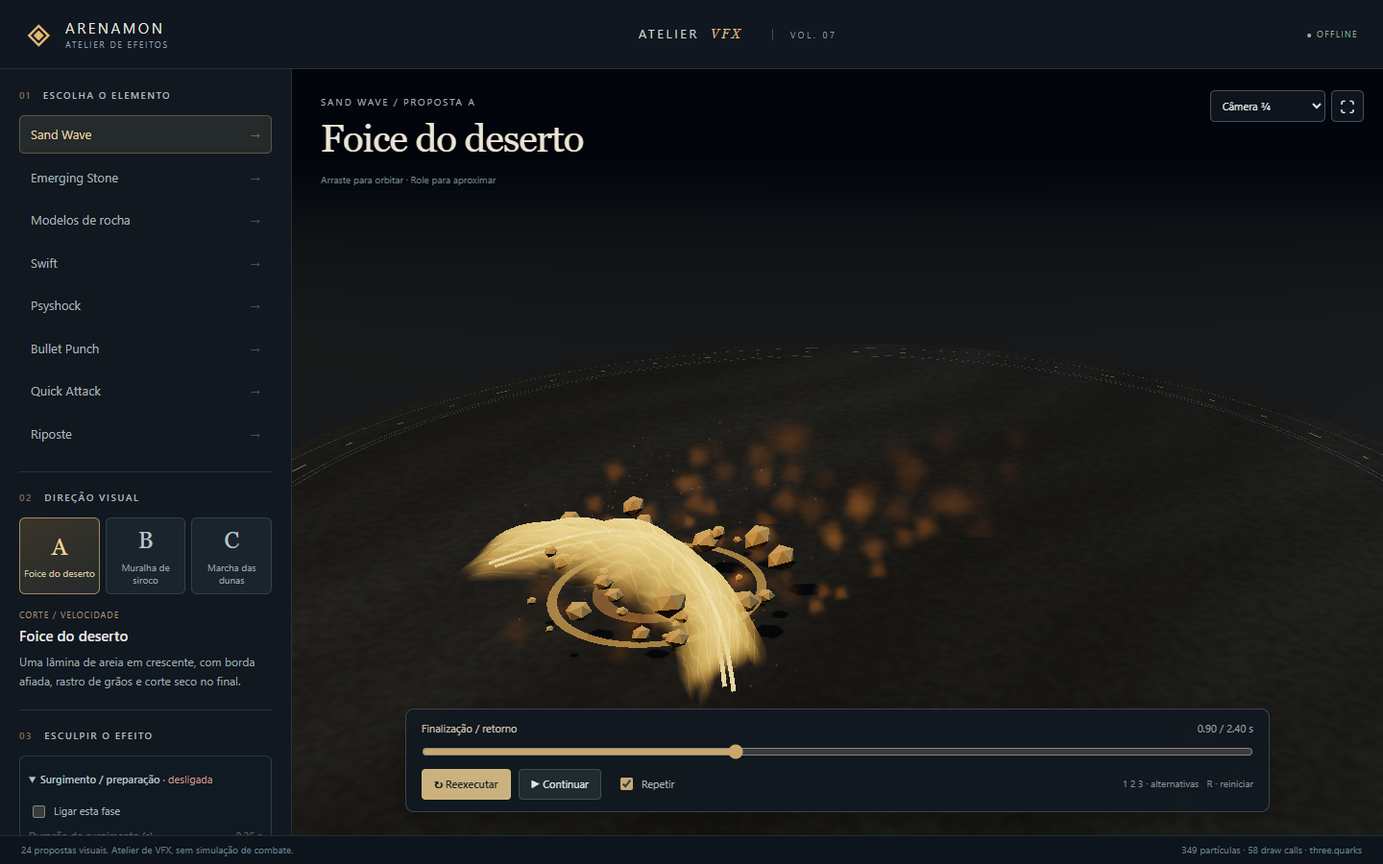
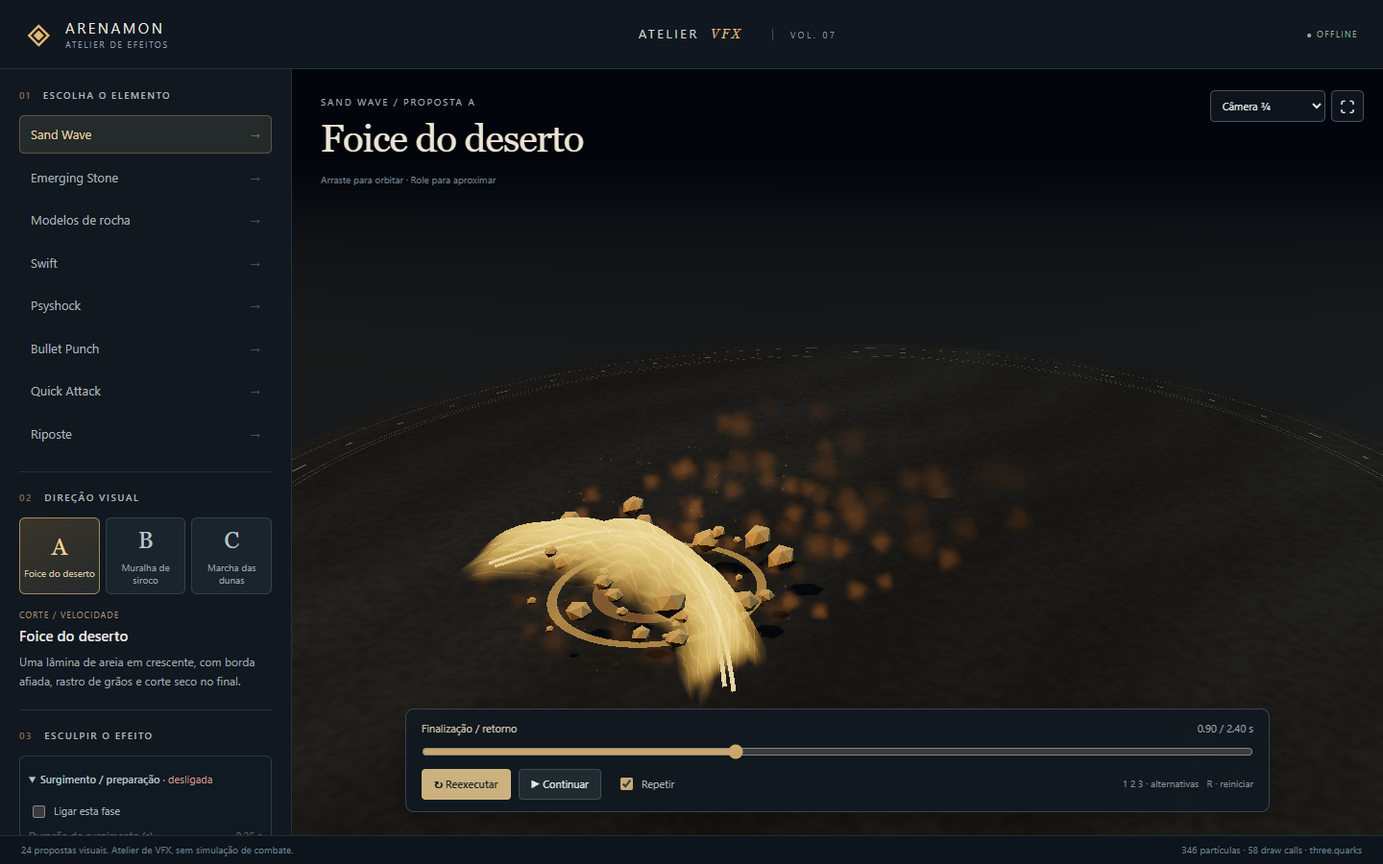
feat(atelier): funil real no Tiro em cone e no Jato (perfil, offset focal, largura horizontal), atraso do disparo e sliders do padrao que faltavam (v1.35.0)

diff --git a/prototypes/sand-stone-lab/src/config.ts b/prototypes/sand-stone-lab/src/config.ts
@@ -34,7 +34,7 @@ export const help:Record<string,string> = {
  auraRadius:'Tamanho dos glifos ao redor das pedras.',ringThickness:'Espessura das linhas dos glifos.',ringCount:'Quantidade de camadas geométricas por pedra.',angularSpeed:'Velocidade de animação dos glifos.',spiral:'Torção dos glifos e dos ecos ao redor das pedras.',pulseRate:'Frequência da animação dos glifos; Sem flash congela a pulsação.',particleDensity:'Multiplica a quantidade de partículas desta opção.',orbSize:'Escala das partículas psíquicas.',trailGlow:'Brilho dos ecos deixados no caminho.',trailLength:'Persistência e comprimento das pós-imagens.',shards:'Quantidade relativa de fragmentos no impacto.',fissureGlow:'Brilho das fendas das pedras.',impactDecay:'Decaimento do acabamento psíquico após o contato.',
  chargeTime:'Preparação da prévia; não representa uma carga Charge.',travelTime:'Tempo de deslocamento visual até o alvo.',spread:'Abertura lateral das trilhas e pós-imagens.',twist:'Velocidade de torção helicoidal dos rastros.',stretch:'Alongamento do corpo durante o avanço.',decay:'Dissipação relativa dos rastros e do impacto.',guardSize:'Escala da guarda do Riposte.',counterSize:'Escala da lâmina do contra-ataque.',contactTime:'Instante simulado da interceptação; não altera a janela do jogo.',scenario:'Escolhe o evento que chega à guarda do Riposte.',
  startTime:'Tempo visual de surgimento; carga somente no Psyshock.',flightTime:'Tempo visual até o destino. No Emerging Stone é a viagem subterrânea.',holdTime:'Tempo adicional para manter a presença do efeito antes de encerrar.',finishTime:'Duração do apagar; no Quick Attack é o retorno sem segundo hit.',impactTime:'Tempo de vida do efeito de contato, independente da recuperação.',impactSize:'Multiplica o tamanho do impacto, explosão e hit da prévia.',impactParticles:'Multiplica a emissão de partículas somente no contato.',hitOn:'Acrescenta o hit pontual ao contato válido, separado da explosão.',outcome:'Contato mostra impacto; expirar e interromper encerram sem hit.',rotationX:'Inclinação do VFX no eixo X: positivo e negativo giram em sentidos opostos.',rotationY:'Direção do VFX no eixo vertical Y; positivo e negativo giram em sentidos opostos.',rotationZ:'Rotação da silhueta no eixo Z; 90° deixa a Foice do Deserto em pé.',
- undergroundDepth:'Profundidade representada pelo rastro abaixo da superfície.',undergroundWidth:'Largura da trilha de poeira e energia no chão.',undergroundParticles:'Quantidade de partículas no caminho subterrâneo.',shotKind:'0 = Nenhum (padrão: o visual atual não muda), 1 = Argola, 2 = Tiro em cone, 3 = Burst de vento anime, 4 = Jato pressurizado, 5 = Impacto estelar. Os valores de cada opção ficam guardados ao trocar; desligar a fase Disparo desliga também o disparo antigo do efeito.',shotRadius:'Raio inicial do disparo (m) ou da boca do cone/argola.',shotRadiusEnd:'Raio final do trajeto/saída (afunilamento métrico): menor afunila em estocada, maior abre em leque.',shotFocalDist:'Distância focal do afunilamento métrico (m) onde o raio final programado é atingido.',shotHorizontal:'Positivo desloca à frente da origem; negativo desloca para trás.',shotVertical:'Positivo desloca para cima; negativo desloca para baixo.',shotSquash:'Achatamento horizontal da argola.',shotImpulseH:'Impulso ao longo do trajeto: positivo à frente, negativo para trás.',shotImpulseV:'Impulso vertical do cone: positivo sobe, negativo desce.',shotAngleH:'Direção horizontal do cone, à direita ou à esquerda.',shotAngleV:'Direção vertical do cone, para cima ou para baixo.',shotCount:'Quantidade de partículas emitidas pelo cone.',shotLength:'Comprimento percorrido pelo disparo.',shotTime:'Duração visual do pulso de lançamento.',shotParticleSize:'Tamanho das partículas do cone.',shotParticleLife:'Vida das partículas do cone.',shotThickness:'Espessura da argola de saída.',shotFollow:'Tempo pelo qual o disparo acompanha o corpo antes de ficar solto.',shotWindBlades:'Quantidade de lâminas de ar radiais emitidas no burst de vento anime.',shotBladeCurve:'Curvatura angular das lâminas de vento anime.',shotSnapTime:'Tempo de estalo (snap) ultra-rápido de descompressão do vácuo anime.',shotContour:'Contraste e brilho do contorno da lâmina de vento no estilo cel-shading.',shotCavitation:'Quantidade de estrias axiais de alta velocidade que acompanham o jato perfurante.',shotJetPressure:'Velocidade e pressão de ejeção do jato concentrado perfurante.',shotCrossArms:'Comprimento dos braços ortogonais da detonação em cruz/estrela.',shotCrossAngle:'Rotação inicial da cruz no disparo (0° = cruz ortogonal, 45° = cruz em X).',shotCoreGlow:'Multiplicador de intensidade luminosa do núcleo central do impacto estelar.',shotRecoilFlash:'Pulso de luz no ponto do disparo (0 = desligado). Some com «Sem flash».',shotRecoilHalo:'Brilho difuso em volta do emissor (0 = desligado).',shotRecoilKick:'Recuo momentâneo do núcleo para trás do disparo (0 = desligado).',shotRecoilWaves:'Mini-ondas concêntricas de choque, de 0 a 4 (0 = desligado).',shotRecoilPlume:'Fagulhas e poeira sopradas no sentido oposto ao tiro (0 = desligado).',shotCrossSparks:'Quantidade de microfagulhas direcionais emitidas coladas aos eixos da cruz.',
+ undergroundDepth:'Profundidade representada pelo rastro abaixo da superfície.',undergroundWidth:'Largura da trilha de poeira e energia no chão.',undergroundParticles:'Quantidade de partículas no caminho subterrâneo.',shotKind:'0 = Nenhum (padrão: o visual atual não muda), 1 = Argola, 2 = Tiro em cone, 3 = Burst de vento anime, 4 = Jato pressurizado, 5 = Impacto estelar. Os valores de cada opção ficam guardados ao trocar; desligar a fase Disparo desliga também o disparo antigo do efeito.',shotRadius:'Raio inicial do disparo (m) ou da boca do cone/argola.',shotRadiusEnd:'Raio final do trajeto/saída (afunilamento métrico): menor afunila em estocada, maior abre em leque.',shotFocalDist:'Distância focal do afunilamento métrico (m) onde o raio final programado é atingido.',shotHorizontal:'Positivo desloca à frente da origem; negativo desloca para trás.',shotVertical:'Positivo desloca para cima; negativo desloca para baixo.',shotSquash:'Achatamento horizontal da argola.',shotImpulseH:'Impulso ao longo do trajeto: positivo à frente, negativo para trás.',shotImpulseV:'Impulso vertical do cone: positivo sobe, negativo desce.',shotAngleH:'Direção horizontal do cone, à direita ou à esquerda.',shotAngleV:'Direção vertical do cone, para cima ou para baixo.',shotCount:'Quantidade de partículas emitidas pelo cone.',shotLength:'Comprimento percorrido pelo disparo.',shotTime:'Duração visual do pulso de lançamento.',shotParticleSize:'Tamanho das partículas do cone.',shotParticleLife:'Vida das partículas do cone.',shotThickness:'Espessura da argola de saída.',shotFollow:'Tempo pelo qual o disparo acompanha o corpo antes de ficar solto.',shotWindBlades:'Quantidade de lâminas de ar radiais emitidas no burst de vento anime.',shotBladeCurve:'Curvatura angular das lâminas de vento anime.',shotSnapTime:'Tempo de estalo (snap) ultra-rápido de descompressão do vácuo anime.',shotContour:'Contraste e brilho do contorno da lâmina de vento no estilo cel-shading.',shotCavitation:'Quantidade de estrias axiais de alta velocidade que acompanham o jato perfurante.',shotJetPressure:'Velocidade e pressão de ejeção do jato concentrado perfurante.',shotCrossArms:'Comprimento dos braços ortogonais da detonação em cruz/estrela.',shotCrossAngle:'Rotação inicial da cruz no disparo (0° = cruz ortogonal, 45° = cruz em X).',shotCoreGlow:'Multiplicador de intensidade luminosa do núcleo central do impacto estelar.',shotDelay:'Espera antes de o disparo nascer, contada a partir do início da fase Disparo (0 = imediato).',shotTaperProfile:'0 = Linear (cone reto), 1 = Parabólico (bico de alta pressão: fecha rápido no começo), 2 = Exponencial (ponta afiada: fecha de repente no fim).',shotFocalOffset:'Desloca o ponto onde o afunilamento começa: positivo para frente da boca, negativo para trás.',shotConeAngle:'Abertura angular extra das partículas do cone (0 = só a do afunilamento).',shotBladeWidth:'Largura das lâminas de vento: mais grossas ou mais finas.',shotFan:'Ângulo coberto pelas lâminas: 360° = burst completo, 180° = leque frontal.',shotContraction:'Velocidade com que um anel se fecha rumo à ponta do jato (0 = sem anel).',shotCoreThickness:'Largura da cintura da estrela (centro onde as pontas se cruzam).',shotRecoilFlash:'Pulso de luz no ponto do disparo (0 = desligado). Some com «Sem flash».',shotRecoilHalo:'Brilho difuso em volta do emissor (0 = desligado).',shotRecoilKick:'Recuo momentâneo do núcleo para trás do disparo (0 = desligado).',shotRecoilWaves:'Mini-ondas concêntricas de choque, de 0 a 4 (0 = desligado).',shotRecoilPlume:'Fagulhas e poeira sopradas no sentido oposto ao tiro (0 = desligado).',shotCrossSparks:'Quantidade de microfagulhas direcionais emitidas coladas aos eixos da cruz.',
 };
 const row=(key:string,label:string,unit:string,min:number,max:number,step:number,value:number):Control=>[key,label,unit,min,max,step,value];
 const extras:Control[]=[
@@ -42,18 +42,20 @@ const extras:Control[]=[
  row('flightTime','Duração do trajeto','s',0,2,.01,.75),row('holdTime','Permanência na chegada','s',0,3,.05,.15),row('finishTime','Finalização / retorno','s',.05,2,.01,.45),
  row('impactTime','Duração do contato','s',.05,2,.01,.8),row('impactSize','Escala do contato','×',.1,3,.05,1),row('impactParticles','Partículas do contato','×',0,2,.05,1),row('outcome','Resultado da prévia','',0,2,1,0),
  row('shotKind','Efeito de disparo','',0,5,1,0),row('shotRadius','Tamanho do disparo','m',.02,2,.01,.4), row('shotRadiusEnd','Raio final (afunilamento)','m',.01,3,.01,.8),row('shotFocalDist','Distância focal de afunilamento','m',.1,5,.05,1.5),
- row('shotHorizontal','Deslocamento horizontal','m',-2,2,.05,0),row('shotVertical','Deslocamento vertical','m',-2,2,.05,0),row('shotSquash','Achatamento horizontal','×',.05,3,.05,1),row('shotThickness','Espessura da argola','m',.005,.15,.005,.045),
+ row('shotHorizontal','Deslocamento horizontal','m',-2,2,.05,0),row('shotVertical','Deslocamento vertical','m',-2,2,.05,0),row('shotSquash','Largura horizontal (achatamento)','×',.05,3,.05,1),row('shotThickness','Espessura da argola','m',.005,.15,.005,.045),
  row('shotImpulseH','Impulso horizontal','m/s',-5,5,.1,1.5),row('shotImpulseV','Impulso vertical','m/s',-5,5,.1,.5),row('shotAngleH','Direção horizontal','°',-180,180,1,0),row('shotAngleV','Direção vertical','°',-180,180,1,0),row('shotCount','Partículas do cone','un.',1,150,1,60),row('shotLength','Comprimento do disparo','m',.05,3,.05,2.2),row('shotTime','Duração do disparo','s',.05,2,.01,.35),row('shotParticleSize','Tamanho das partículas','m',.005,.3,.005,.18),row('shotParticleLife','Vida das partículas','s',.05,2,.05,.55),row('shotFollow','Seguimento da origem','s',0,2,.01,0),
  row('shotWindBlades','Lâminas de vento anime','un.',3,16,1,8),row('shotBladeCurve','Curvatura das lâminas','°',-90,90,1,30),row('shotSnapTime','Tempo de estalo (snap)','s',.04,.5,.01,.12),row('shotContour','Contorno anime','×',1,4,.1,2),
  row('shotCavitation','Estrias de cavitação','un.',1,20,1,8),row('shotJetPressure','Pressão de ejeção','m/s',1,25,.5,10),
  row('shotCrossArms','Braços da cruz estelar','m',.1,3,.05,.8),row('shotCrossAngle','Rotação da cruz','°',-180,180,1,0),row('shotCoreGlow','Brilho do núcleo estelar','×',.5,5,.1,2.5),row('shotCrossSparks','Centelhas em cruz','un.',1,60,1,24),
+ row('shotDelay','Atraso do disparo','s',0,2,.01,0),row('shotTaperProfile','Perfil do afunilamento','',0,2,1,0),row('shotFocalOffset','Offset focal longitudinal','m',-2,2,.05,0),row('shotConeAngle','Abertura extra do cone','°',0,60,1,0),
+ row('shotBladeWidth','Espessura das lâminas','m',.02,1,.01,.38),row('shotFan','Abertura angular do leque','°',15,360,1,360),row('shotContraction','Contração radial','×/s',0,5,.1,0),row('shotCoreThickness','Espessura do núcleo estelar','m',.02,.5,.01,.14),
  row('shotRecoilFlash','Clarão frontal','×',0,3,.05,0),row('shotRecoilHalo','Halo luminoso (diâmetro)','m',0,3,.05,0),row('shotRecoilKick','Coice do núcleo','m',0,1,.01,0),row('shotRecoilWaves','Ondas de choque secundárias','un.',0,4,1,0),row('shotRecoilPlume','Jato de escape para trás','un.',0,60,1,0),
 ];
 const section:Record<string,Phase>={warning:'start',chargeTime:'start',startTime:'start',guardSize:'start',contactTime:'start',scenario:'start',crackWidth:'start',crackIntensity:'start',warningRadius:'start',holdTime:'hold',rise:'hold',finishTime:'finish',decay:'finish',dissipation:'finish',dustPersistence:'finish',impactDecay:'finish',settling:'finish',impactTime:'impact',impactSize:'impact',impactParticles:'impact',hitOn:'impact',flash:'impact',impactIntensity:'impact',debrisSize:'impact',fragmentSize:'impact',fragmentSpeed:'impact',verticalImpulse:'impact',outcome:'finish'};
 export function phaseOf(key:string):Phase{return key.startsWith('shot')?'launch':section[key]??'body';}
 export function isToggle(key:string){return key.endsWith('On');}
 export function isSelector(key:string){return ['scenario','outcome','shotKind'].includes(key);}
-export function expand(c:Control):Control{const [k,l,u,min,max,step,v]=c;if(isToggle(k)||isSelector(k))return c;if(/Hue$/.test(k))return [k,l,u,min<0?-180:0,min<0?180:360,step,v];if(u==='°')return [k,l,u,-180,180,step,v];const signed=['verticalImpulse','visualGravity','turn','rotation','angularSpeed','shotImpulseH','shotImpulseV','shotHorizontal','shotVertical'].includes(k);return [k,l,u,signed?-max*5:min<0?min*5:min,max*5,step,v];}
+export function expand(c:Control):Control{const [k,l,u,min,max,step,v]=c;if(isToggle(k)||isSelector(k))return c;if(/Hue$/.test(k))return [k,l,u,min<0?-180:0,min<0?180:360,step,v];if(u==='°'&&!['shotFan','shotConeAngle'].includes(k))return [k,l,u,-180,180,step,v];const signed=['verticalImpulse','visualGravity','turn','rotation','angularSpeed','shotImpulseH','shotImpulseV','shotHorizontal','shotVertical'].includes(k);return [k,l,u,signed?-max*5:min<0?min*5:min,max*5,step,v];}
 export const controls:Record<Category,Control[]> = Object.fromEntries(categories.map(c=>{
  const defs=[...baseControls[c],...extras];
  if(!['bulletpunch','quickattack','stone','riposte'].includes(c))defs.push(row('startTime',c==='psyshock'?'Duracão da carga visual':'Duração do surgimento','s',.01,3,.01,c==='psyshock'?1.6:c==='swift'?.12:.25));
@@ -78,6 +80,7 @@ export const notUsed: Partial<Record<Category, {all?: string[]; byVariant?: Part
   bulletpunch: {byVariant: {0: ['twist'], 1: ['spread'], 2: ['twist']}},
   quickattack: {byVariant: {2: ['spread']}},
 };
+{const rock = notUsed.rock!.all!;for (const d of controls.rock) if (d[0].startsWith('shot') && !rock.includes(d[0])) rock.push(d[0]);}   // a Rocha não tem disparo
 /** «Acompanhar o corpo» só funciona quando o Move entrega a posição do corpo ao disparo; nenhum entrega hoje, então o controle fica escondido (seria morto). */
 const NO_FOLLOW = ['shotFollow'];
 export function isUsed(category: Category, variant: number, key: string): boolean {

diff --git a/prototypes/sand-stone-lab/src/shot-effect.ts b/prototypes/sand-stone-lab/src/shot-effect.ts
@@ -53,6 +53,27 @@ function radialLinesGeometry(n: number, r0: number, r1: number, seed: number) {
   }
   const g = new T.BufferGeometry();g.setAttribute('position', new T.Float32BufferAttribute(pos, 3));return g;
 }
+// ---- Funil (afunilamento métrico, PADRAO §3): raio inicial → raio final ao longo da distância focal, com perfil e offset ---------------------
+const PROFILES: ((u: number) => number)[] = [u => u, u => 1 - (1 - u) * (1 - u), u => u * u * u];   // Linear, Parabólico (Laval), Exponencial
+/** Raio do funil a uma distância z da boca. Antes do offset fica no raio inicial; depois da distância focal, no final. Nunca negativo. */
+export function funnelRadius(z: number, r0: number, r1: number, focal: number, offset: number, profile: number) {
+  const u = Math.max(0, Math.min(1, (z - offset) / Math.max(.05, focal)));
+  return Math.max(.005, r0 + (r1 - r0) * (PROFILES[Math.max(0, Math.min(2, Math.round(profile)))](u)));
+}
+function funnelGeometry(r0: number, r1: number, focal: number, offset: number, length: number, profile: number, xscale: number, segZ = 32, segA = 28) {
+  const pos: number[] = [], uv: number[] = [], idx: number[] = [];
+  for (let i = 0; i <= segZ; i++) {
+    const z = i / segZ * length, R = funnelRadius(z, r0, r1, focal, offset, profile);
+    for (let j = 0; j <= segA; j++) {const th = j / segA * Math.PI * 2;pos.push(Math.cos(th) * R * xscale, Math.sin(th) * R, z);uv.push(i / segZ, j / segA);}
+  }
+  for (let i = 0; i < segZ; i++) for (let j = 0; j < segA; j++) {const a = i * (segA + 1) + j, b = a + segA + 1;idx.push(a, b, a + 1, b, b + 1, a + 1);}
+  const g = new T.BufferGeometry();g.setAttribute('position', new T.Float32BufferAttribute(pos, 3));g.setAttribute('uv', new T.Float32BufferAttribute(uv, 2));g.setIndex(idx);g.computeVertexNormals();return g;
+}
+const FUN_VERT = 'varying vec2 vUv;varying vec3 vN;varying vec3 vP;void main(){vUv=uv;vN=normalize(normalMatrix*normal);vec4 mv=modelViewMatrix*vec4(position,1.);vP=mv.xyz;gl_Position=projectionMatrix*mv;}';
+const FUN_FRAG = 'varying vec2 vUv;varying vec3 vN;varying vec3 vP;uniform vec3 core;uniform vec3 body;uniform float front;uniform float fade;uniform float stripes;void main(){float al=vUv.x;if(al>front)discard;float rim=pow(1.-abs(dot(normalize(vN),normalize(-vP))),1.3);float head=smoothstep(front-.3,front,al);float s=stripes>.5?(.45+.55*step(.5,fract(vUv.y*stripes))):1.;float a=fade*(.22+.78*rim)*(1.-al*.75)*s;vec3 c=mix(body,core,pow(1.-rim,2.)*.8)*(1.+head*1.2);gl_FragColor=vec4(c,a);}';
+function funnelMaterial(core: T.Color, body: T.Color, stripes: number) {
+  return new T.ShaderMaterial({uniforms: {core: {value: core}, body: {value: body}, front: {value: 0}, fade: {value: 1}, stripes: {value: stripes}}, vertexShader: FUN_VERT, fragmentShader: FUN_FRAG, transparent: true, depthWrite: false, side: T.DoubleSide, blending: T.AdditiveBlending});
+}
 const ease = (k: number) => 1 - Math.pow(1 - Math.max(0, Math.min(1, k)), 3);
 const back = (k: number) => {const c = 1.9, x = Math.max(0, Math.min(1, k)) - 1;return 1 + (c + 1) * x * x * x + c * x * x;};
 type Vec3 = [number, number, number];
@@ -75,6 +96,8 @@ export class ShotEffect {
   private crossMesh: T.Group | null = null;
   private recoil: T.Group | null = null;
   private flat: T.Group | null = null;
+  private funnel: T.Group | null = null;
+  private waiting = 0;
   private age = 0;
   private fired = false;
   private readonly entries: any[] = [];
@@ -108,6 +131,12 @@ export class ShotEffect {
   fire() {
     if (!this.enabled || this.fired || (this.kind === 0 && !this.recoilOn)) return;
     this.fired = true;this.age = 0;
+    const delay = this.values.shotDelay ?? 0;
+    if (delay > 0) {this.waiting = delay;return;}   // «Atraso do disparo»: nada nasce antes da hora
+    this.release();
+  }
+
+  private release() {
     if (this.recoilOn) this.fireRecoil();
     if (this.kind === 0) return;
     switch (this.kind) {
@@ -177,7 +206,7 @@ export class ShotEffect {
     const a = this.anchor();
     // Afunilamento métrico: raio inicial v.shotRadius -> raio final v.shotRadiusEnd sobre v.shotFocalDist
     const r0 = v.shotRadius ?? .4, r1 = v.shotRadiusEnd ?? .8, focal = Math.max(.1, v.shotFocalDist ?? 1.5);
-    const chokeAngle = Math.max(.05, Math.atan2(Math.abs(r1 - r0), focal));
+    const chokeAngle = Math.max(.05, Math.atan2(Math.abs(r1 - r0), focal)) + (v.shotConeAngle ?? 0) * Math.PI / 180;
     const dur = Math.max(.05, v.shotTime ?? .35), n = Math.max(1, Math.round(v.shotCount ?? 60));
     this.entries.push(this.particles.create({
       kind: this.theme?.particle ?? 'orb', color: this.body(0xffd58a), rate: Math.max(1, Math.round(n / dur)), duration: dur, life,
@@ -187,6 +216,22 @@ export class ShotEffect {
       kind: 'dust', color: this.theme.trail, rate: Math.max(1, Math.round(n / dur / 3)), duration: dur, life: life * 1.4,
       size: (v.shotParticleSize ?? .18) * 1.6, speed: speed * .6, radius: r0 * .25, angle: chokeAngle, opacity: .5, position: [a.x, a.y, a.z], direction: [d.x, d.y, d.z]
     }));
+    this.makeFunnel(a, d, 0);
+  }
+
+  /** Funil translúcido do disparo (cone ou jato): largo na boca, afunilando pelo perfil escolhido; `shotSquash` alarga na horizontal. */
+  private makeFunnel(a: T.Vector3, d: T.Vector3, stripes: number) {
+    const v = this.values, th = this.theme;
+    const geo = funnelGeometry(v.shotRadius ?? .4, v.shotRadiusEnd ?? .8, v.shotFocalDist ?? 1.5, v.shotFocalOffset ?? 0, Math.max(.2, v.shotLength ?? 2.2), v.shotTaperProfile ?? 0, v.shotSquash ?? 1);
+    const body = new T.Color(this.body(0xffd58a)).multiplyScalar(1.4), core = new T.Color(th?.core ?? 0xffffff).multiplyScalar(2);
+    const mat = funnelMaterial(core, body, stripes), mesh = new T.Mesh(geo, mat);mesh.frustumCulled = false;
+    const g = new T.Group();g.name = 'shot-funnel';g.position.copy(a);g.quaternion.setFromUnitVectors(new T.Vector3(0, 0, 1), d);g.add(mesh);
+    g.userData = {mat, dur: Math.max(.05, v.shotTime ?? .35), impulse: v.shotImpulseH ?? 0, contraction: v.shotContraction ?? 0, r0: v.shotRadius ?? .4, focal: v.shotFocalDist ?? 1.5, length: Math.max(.2, v.shotLength ?? 2.2)};
+    if ((v.shotContraction ?? 0) > 0) {   // anel que se fecha rumo à ponta: contração radial
+      const ring = new T.Mesh(new T.TorusGeometry(1, .02, 6, 40), new T.MeshBasicMaterial({color: core, transparent: true, opacity: .9, depthWrite: false, blending: T.AdditiveBlending, toneMapped: false}));
+      ring.name = 'contraction';g.add(ring);
+    }
+    this.parent.add(g);this.funnel = g;
   }
 
   private fireWindBurst() {
@@ -195,20 +240,20 @@ export class ShotEffect {
     const th = this.theme, bodyC = new T.Color(this.body(0xcfeff5)), coreC = new T.Color(th?.core ?? 0xffffff).multiplyScalar(contour), rimC = new T.Color(th?.trail ?? 0x35505c);
     const g = new T.Group();g.name = 'shot-blades';g.position.copy(a);g.quaternion.setFromUnitVectors(new T.Vector3(0, 0, 1), this.dir);
     const bladeMat = celMaterial(coreC, bodyC, rimC, 0), lineMat = celMaterial(coreC, bodyC, rimC, 1);
-    const twist = (v.shotBladeCurve ?? 30) * Math.PI / 180, snap = Math.max(.04, v.shotSnapTime ?? .12);
-    const crescent = crescentGeometry(r * 1.5 + .35, 1.1, .26 + .06 * contour), plane = new T.PlaneGeometry(1, 1);
+    const fan = (v.shotFan ?? 360) * Math.PI / 180 * (180 / Math.PI), twist = (v.shotBladeCurve ?? 30) * Math.PI / 180, snap = Math.max(.04, v.shotSnapTime ?? .12);
+    const crescent = crescentGeometry(r * 1.5 + .35, 1.1, v.shotBladeWidth ?? .38), plane = new T.PlaneGeometry(1, 1);
     // lâminas em crescente ao redor do eixo, cada uma com tamanho e atraso próprios
     for (let i = 0; i < n; i++) {
       const pivot = new T.Group(), tw = new T.Group(), m = new T.Mesh(crescent, bladeMat);
       m.rotation.z = Math.PI / 2;tw.rotation.x = twist;tw.add(m);pivot.add(tw);pivot.name = 'blade';
-      pivot.userData = {phi: i / n * Math.PI * 2, tw, size: .75 + (i % 3) * .17, lag: (i % 2) * .1};g.add(pivot);
+      pivot.userData = {phi: fan >= 359 ? i / n * Math.PI * 2 : Math.PI / 2 - fan * Math.PI / 360 + (i + .5) / n * fan * Math.PI / 180, tw, size: .75 + (i % 3) * .17, lag: (i % 2) * .1};g.add(pivot);
     }
     // linhas de velocidade: faixas finas que afinam para trás, correndo ao longo do eixo
     const lines = n * 2;
     for (let i = 0; i < lines; i++) {
       const pivot = new T.Group(), tw = new T.Group(), m = new T.Mesh(plane, lineMat);
       m.rotation.y = -Math.PI / 2;m.scale.set(len * (.5 + (i % 3) * .22), .018 + .012 * contour, 1);tw.add(m);pivot.add(tw);pivot.name = 'line';
-      pivot.userData = {phi: (i + .5) / lines * Math.PI * 2 + .2, tw, mesh: m, rho: .75 + (i % 3) * .25, lag: (i % 3) * .05};g.add(pivot);
+      pivot.userData = {phi: fan >= 359 ? (i + .5) / lines * Math.PI * 2 + .2 : Math.PI / 2 - fan * Math.PI / 360 + (i + .5) / lines * fan * Math.PI / 180, tw, mesh: m, rho: .75 + (i % 3) * .25, lag: (i % 3) * .05};g.add(pivot);
     }
     // anel de choque fino e branco
     const ring = new T.Mesh(new T.RingGeometry(.93, 1, 64), new T.MeshBasicMaterial({color: new T.Color(th?.core ?? 0xffffff).multiplyScalar(2), transparent: true, opacity: .85, side: T.DoubleSide, depthWrite: false, blending: T.AdditiveBlending, toneMapped: false}));
@@ -235,6 +280,7 @@ export class ShotEffect {
     const speed = (v.shotLength ?? 2.2) * 3 + (v.shotJetPressure ?? 10) + (v.shotImpulseH ?? 0);
     const chokeAngle = Math.max(.02, Math.atan2(Math.abs(r1 - r0), focal));
 
+    this.makeFunnel(a, this.dir, Math.max(1, Math.round(v.shotCavitation ?? 8)) * 1.5);
     // Jato central denso em alta velocidade
     this.entries.push(this.particles.create({
       kind: this.theme?.particle === 'grain' ? 'grain' : 'orb', color: this.body(0x73caff), rate: 70, duration: dur, life: .3,
@@ -259,9 +305,9 @@ export class ShotEffect {
     // grupo que sempre encara a câmera (a estrela é um desenho plano; de lado ela sumiria)
     const g = new T.Group();g.name = 'shot-cross';g.position.copy(a);
     const spin = new T.Group();spin.name = 'spin';spin.rotation.z = (v.shotCrossAngle ?? 0) * Math.PI / 180;g.add(spin);
-    const body = new T.Mesh(starGeometry(arms, arms * .17), mat(bodyC));body.name = 'star-body';
+    const body = new T.Mesh(starGeometry(arms, Math.min(arms * .45, v.shotCoreThickness ?? .14)), mat(bodyC));body.name = 'star-body';
     const diag = new T.Mesh(starGeometry(arms * .5, arms * .06, Math.PI / 4), mat(bodyC.clone().multiplyScalar(.8), .9));diag.name = 'star-diag';
-    const core = new T.Mesh(starGeometry(arms * .6, arms * .2), mat(coreC));core.name = 'star-core';core.position.z = .002;
+    const core = new T.Mesh(starGeometry(arms * .6, Math.min(arms * .3, (v.shotCoreThickness ?? .14) * 1.4)), mat(coreC));core.name = 'star-core';core.position.z = .002;
     const flash = new T.Mesh(new T.CircleGeometry(arms * .12, 28), mat(coreC));flash.name = 'flash';flash.position.z = .004;
     const jag = new T.Mesh(jaggedGeometry(11, arms * .22, arms * .45, arms * .85, 11), mat(bodyC.clone().multiplyScalar(.55), .7));jag.name = 'jag';jag.position.z = -.002;
     spin.add(jag, body, diag, core, flash);
@@ -280,6 +326,7 @@ export class ShotEffect {
 
   update(dt: number) {
     if (!this.fired) return;
+    if (this.waiting > 0) {this.waiting -= dt;if (this.waiting > 0) return;this.waiting = 0;this.age = 0;this.release();return;}
     this.age += dt;
     const v = this.values, follow = v.shotFollow ?? 0;
     if (follow > 0 && this.age <= follow && this.opts.follow) this.base.set(...this.opts.follow());
@@ -293,6 +340,12 @@ export class ShotEffect {
     }
 
     this.updateRecoil(t);
+    if (this.funnel) {
+      const f = this.funnel, u = f.userData, k = Math.min(1, t / u.dur), fade = t < u.dur ? 1 : Math.max(0, 1 - (t - u.dur) / .3);
+      u.mat.uniforms.front.value = ease(k) * 1.001;u.mat.uniforms.fade.value = fade;f.visible = fade > 0;
+      const ring = f.getObjectByName('contraction') as T.Mesh | undefined;
+      if (ring) {const sc = Math.max(.06, u.r0 * (1 - Math.min(.95, u.contraction * t * .5)));ring.scale.set(sc, sc, sc);ring.position.z = u.length * ease(k);(ring.material as T.MeshBasicMaterial).opacity = fade * .9;}
+    }
 
     // 1. Argola
     if (this.ring) {
@@ -360,6 +413,10 @@ export class ShotEffect {
     if (this.crossMesh) {
       out.push(['cross', this.crossMesh.position.toArray().map(n => +n.toFixed(4)), this.crossMesh.scale.toArray().map(n => +n.toFixed(4)), +(this.crossMesh.userData.spin.rotation.z).toFixed(4), this.crossMesh.visible]);
     }
+    if (this.funnel) {
+      const m = (this.funnel.children[0] as T.Mesh), p = (m.geometry.attributes.position.array as ArrayLike<number>);let sum = 0;for (let i = 0; i < p.length; i++) sum += p[i] * ((i % 7) + 1);
+      out.push(['funnel', this.funnel.visible, +sum.toFixed(3), +(m.material as T.ShaderMaterial).uniforms.front.value.toFixed(4), +(m.material as T.ShaderMaterial).uniforms.stripes.value, this.funnel.children.length]);
+    }
     if (this.recoil) {
       out.push(['recoil', this.recoil.visible, this.recoil.children.map(c => [c.userData.id, ...c.position.toArray().map(n => +n.toFixed(4)), ...c.scale.toArray().map(n => +n.toFixed(4)), +((c as T.Mesh).material as T.MeshBasicMaterial).opacity.toFixed(4), +((c as T.Mesh).geometry as any).boundingSphere?.radius?.toFixed?.(4) ?? 0, c.visible])]);
     }
@@ -381,13 +438,13 @@ export class ShotEffect {
       (this.ring.material as T.Material).dispose();
       this.ring = null;
     }
-    for (const grp of [this.bladesGroup, this.crossMesh, this.flat]) {
+    for (const grp of [this.bladesGroup, this.crossMesh, this.flat, this.funnel]) {
       if (!grp) continue;
       const geos = new Set<T.BufferGeometry>(), mats = new Set<T.Material>();
       grp.traverse(o => {const m = o as T.Mesh;if (m.geometry) geos.add(m.geometry);for (const x of ([] as T.Material[]).concat(m.material ?? [])) mats.add(x);});
       geos.forEach(x => x.dispose());mats.forEach(x => x.dispose());grp.removeFromParent();
     }
-    this.bladesGroup = null;this.crossMesh = null;this.flat = null;
+    this.bladesGroup = null;this.crossMesh = null;this.flat = null;this.funnel = null;this.waiting = 0;
     for (const e of this.entries) {
       this.particles.renderer.deleteSystem(e.system);
       e.emitter.removeFromParent();

diff --git a/prototypes/sand-stone-lab/src/panel-model.ts b/prototypes/sand-stone-lab/src/panel-model.ts
@@ -19,15 +19,15 @@ export function buildPanel(defs: readonly Control[], category?: Category, varian
   }));
 }
 
-const RING_ONLY = ['shotThickness', 'shotSquash'];
-const CONE_ONLY = ['shotAngleH', 'shotAngleV', 'shotCount', 'shotParticleSize', 'shotParticleLife'];
-const WIND_ONLY = ['shotWindBlades', 'shotBladeCurve', 'shotSnapTime', 'shotContour'];
-const JET_ONLY = ['shotCavitation', 'shotJetPressure'];
-const STAR_ONLY = ['shotCrossArms', 'shotCrossAngle', 'shotCoreGlow', 'shotCrossSparks'];
+const RING_ONLY = ['shotThickness'];
+const CONE_ONLY = ['shotAngleH', 'shotAngleV', 'shotCount', 'shotParticleSize', 'shotParticleLife', 'shotConeAngle'];
+const WIND_ONLY = ['shotWindBlades', 'shotBladeCurve', 'shotSnapTime', 'shotContour', 'shotBladeWidth', 'shotFan'];
+const JET_ONLY = ['shotCavitation', 'shotJetPressure', 'shotContraction'];
+const STAR_ONLY = ['shotCrossArms', 'shotCrossAngle', 'shotCoreGlow', 'shotCrossSparks', 'shotCoreThickness'];
 
 /** Só aparecem os sliders do efeito de disparo escolhido (0 Nenhum, 1 Argola, 2 Tiro em cone, 3 Burst anime, 4 Jato pressurizado, 5 Impacto estelar); os valores ficam guardados ao trocar. */
 export function shotKeyVisible(key: string, kind: number): boolean {
-  if (key === 'shotKind' || key.startsWith('shotRecoil') || !key.startsWith('shot')) return true;   // Recoil & Flash soma a qualquer opção, inclusive «Nenhum»
+  if (key === 'shotKind' || key.startsWith('shotRecoil') || key === 'shotDelay' || !key.startsWith('shot')) return true;   // Recoil & Flash soma a qualquer opção, inclusive «Nenhum»
   if (kind === 0) return false;
   if (RING_ONLY.includes(key)) return kind === 1;
   if (CONE_ONLY.includes(key)) return kind === 2;
@@ -35,7 +35,8 @@ export function shotKeyVisible(key: string, kind: number): boolean {
   if (JET_ONLY.includes(key)) return kind === 4;
   if (STAR_ONLY.includes(key)) return kind === 5;
   if (key === 'shotTime') return kind !== 3;
-  if (key === 'shotFocalDist') return kind === 2 || kind === 4;
+  if (key === 'shotFocalDist' || key === 'shotTaperProfile' || key === 'shotFocalOffset') return kind === 2 || kind === 4;
+  if (key === 'shotSquash') return kind === 1 || kind === 2 || kind === 4;
   if (key === 'shotRadiusEnd') return kind === 2 || kind === 3 || kind === 4;
   if (key === 'shotRadius') return kind === 1 || kind === 2 || kind === 3 || kind === 4;
   if (key === 'shotLength') return kind === 2 || kind === 3 || kind === 4;
@@ -44,6 +45,7 @@ export function shotKeyVisible(key: string, kind: number): boolean {
 
 /** Rótulos dos seletores (controles de poucos valores inteiros). */
 export const selectorLabels: Record<string, string[]> = {
+  shotTaperProfile: ['Linear (cone reto)', 'Parabólico (bico de alta pressão)', 'Exponencial (ponta afiada)'],
   shotKind: ['Nenhum', 'Argola', 'Tiro em cone', 'Burst de vento anime', 'Jato pressurizado', 'Impacto estelar'],
   scenario: ['Acerto na janela → contra-ataque', 'Sem acerto → janela expira', 'Golpe tardio (0,62 s)', 'Guard Break → atravessa'],
   outcome: ['Acerta o alvo', 'Expira sem acertar', 'Interrompido no caminho'],

diff --git a/docs/superpowers/plans/2026-10-24-disparos-funil-sliders.md b/docs/superpowers/plans/2026-10-24-disparos-funil-sliders.md
@@ -1,0 +1,21 @@
+# Disparos: funil real, sliders do padrão e atraso — Plano
+
+> Executado de forma nativa nesta sessão (pedido do responsável: correções rápidas).
+
+**Meta:** cumprir PADRAO_ATELIES_VFX §3–§4 nos disparos do atelier Areia/Pedra: afunilamento visível (perfil + offset focal + largura horizontal), cone/jato desenhados como funil, e todos os sliders que o documento lista, mais «Atraso do disparo».
+**Spec:** docs/PADRAO_ATELIES_VFX.md (§3, §4.1–4.5, §5).
+
+## Restrições globais
+- Todo controle novo nasce neutro (visual padrão não muda; disparo padrão = Nenhum).
+- Nenhum slider morto (dead-controls + shot-sliders), todos com unidade e texto de ajuda.
+
+## Revisão (o que mais morde)
+1. Atraso > 0 não pode criar nada antes da hora (teste: stage vazio até o atraso).
+2. Raio final < inicial afina; > inicial abre (teste mede a malha do funil).
+3. Offset focal negativo não gera raio negativo.
+
+## Tarefas
+- [x] T1 `shot-effect.ts`: `shotDelay`; funil (`funnelGeometry`, perfis linear/parabólico/exponencial, offset focal, largura horizontal `shotSquash`) usado por Cone (4.2) e Jato (4.4); `shotConeAngle`, `shotContraction`.
+- [x] T2 `shot-effect.ts`: Burst `shotBladeWidth`, `shotFan`; Estrela `shotCoreThickness`.
+- [x] T3 `config.ts`/`panel-model.ts`: linhas, textos, visibilidade por tipo, rótulos do perfil, Rocha esconde tudo.
+- [x] T4 testes (`shot.test`, `funnel.test`), build, capturas, commit.
